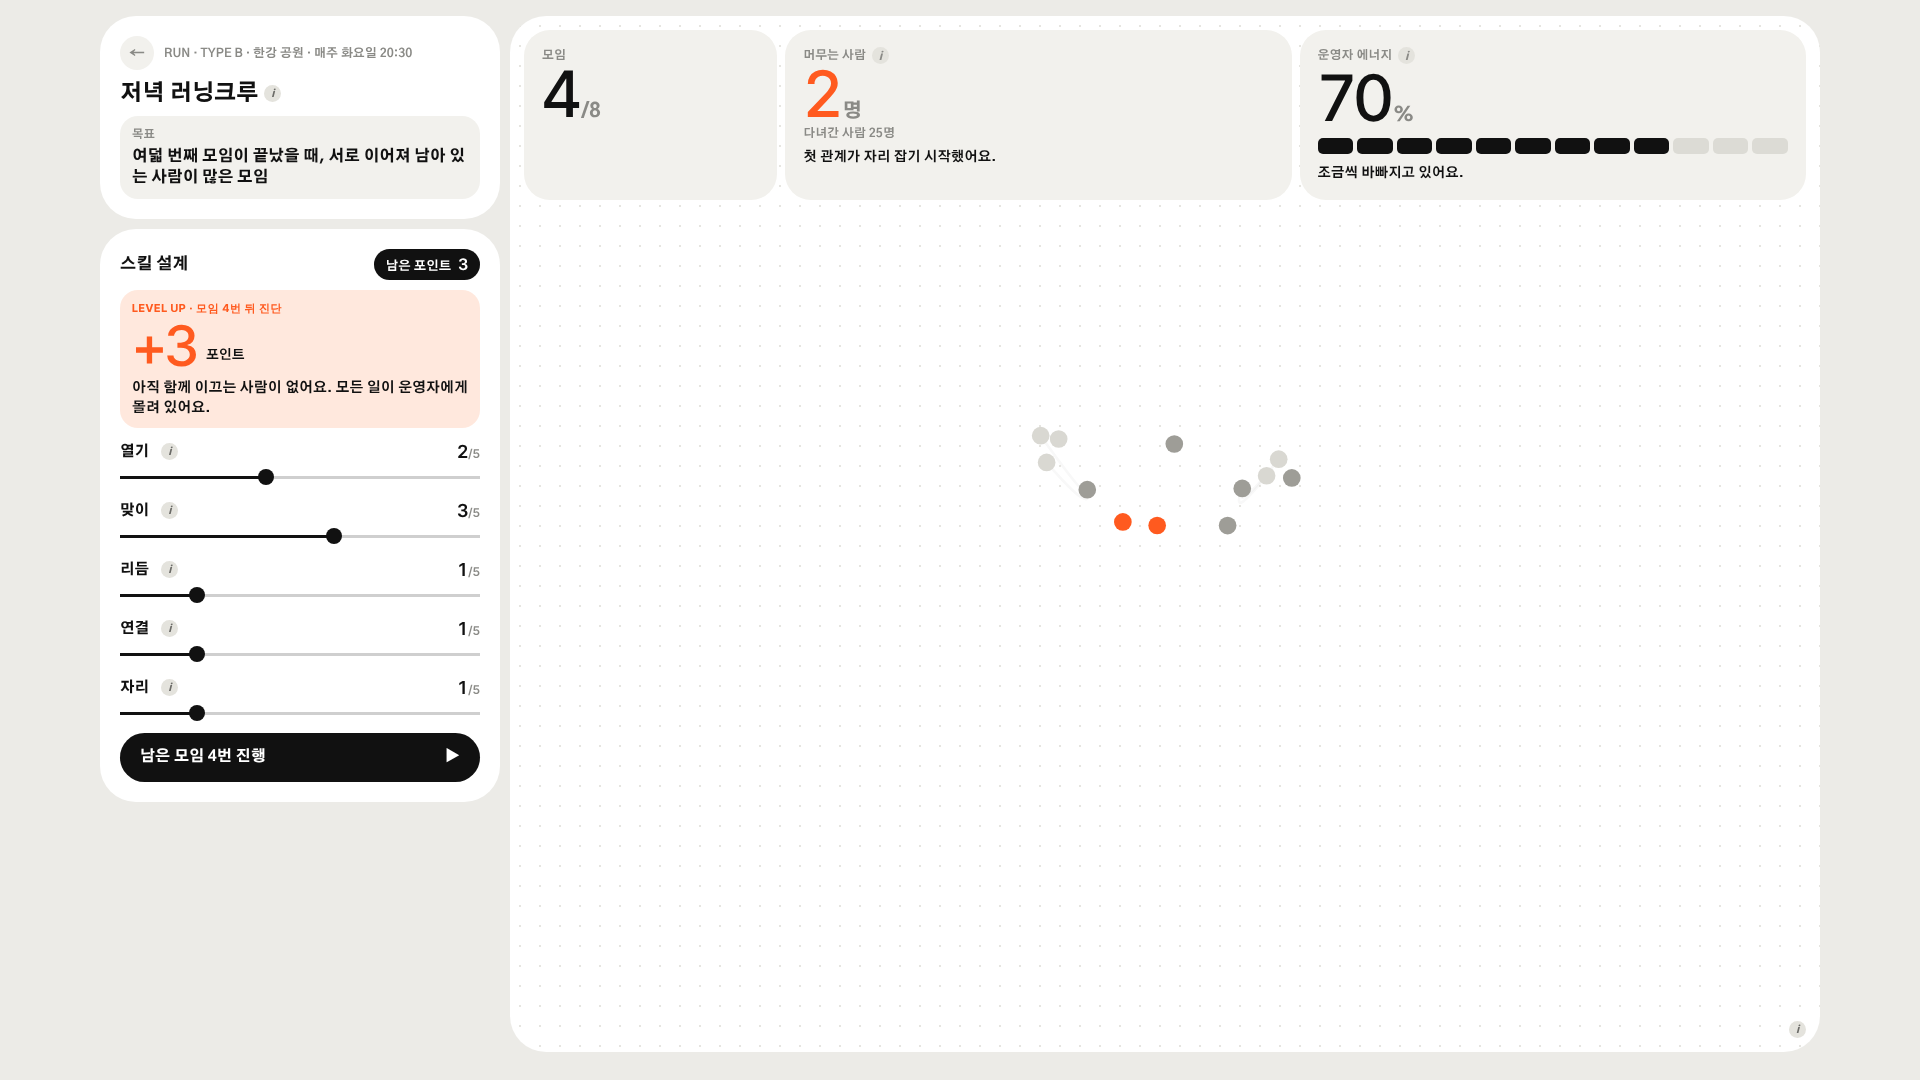
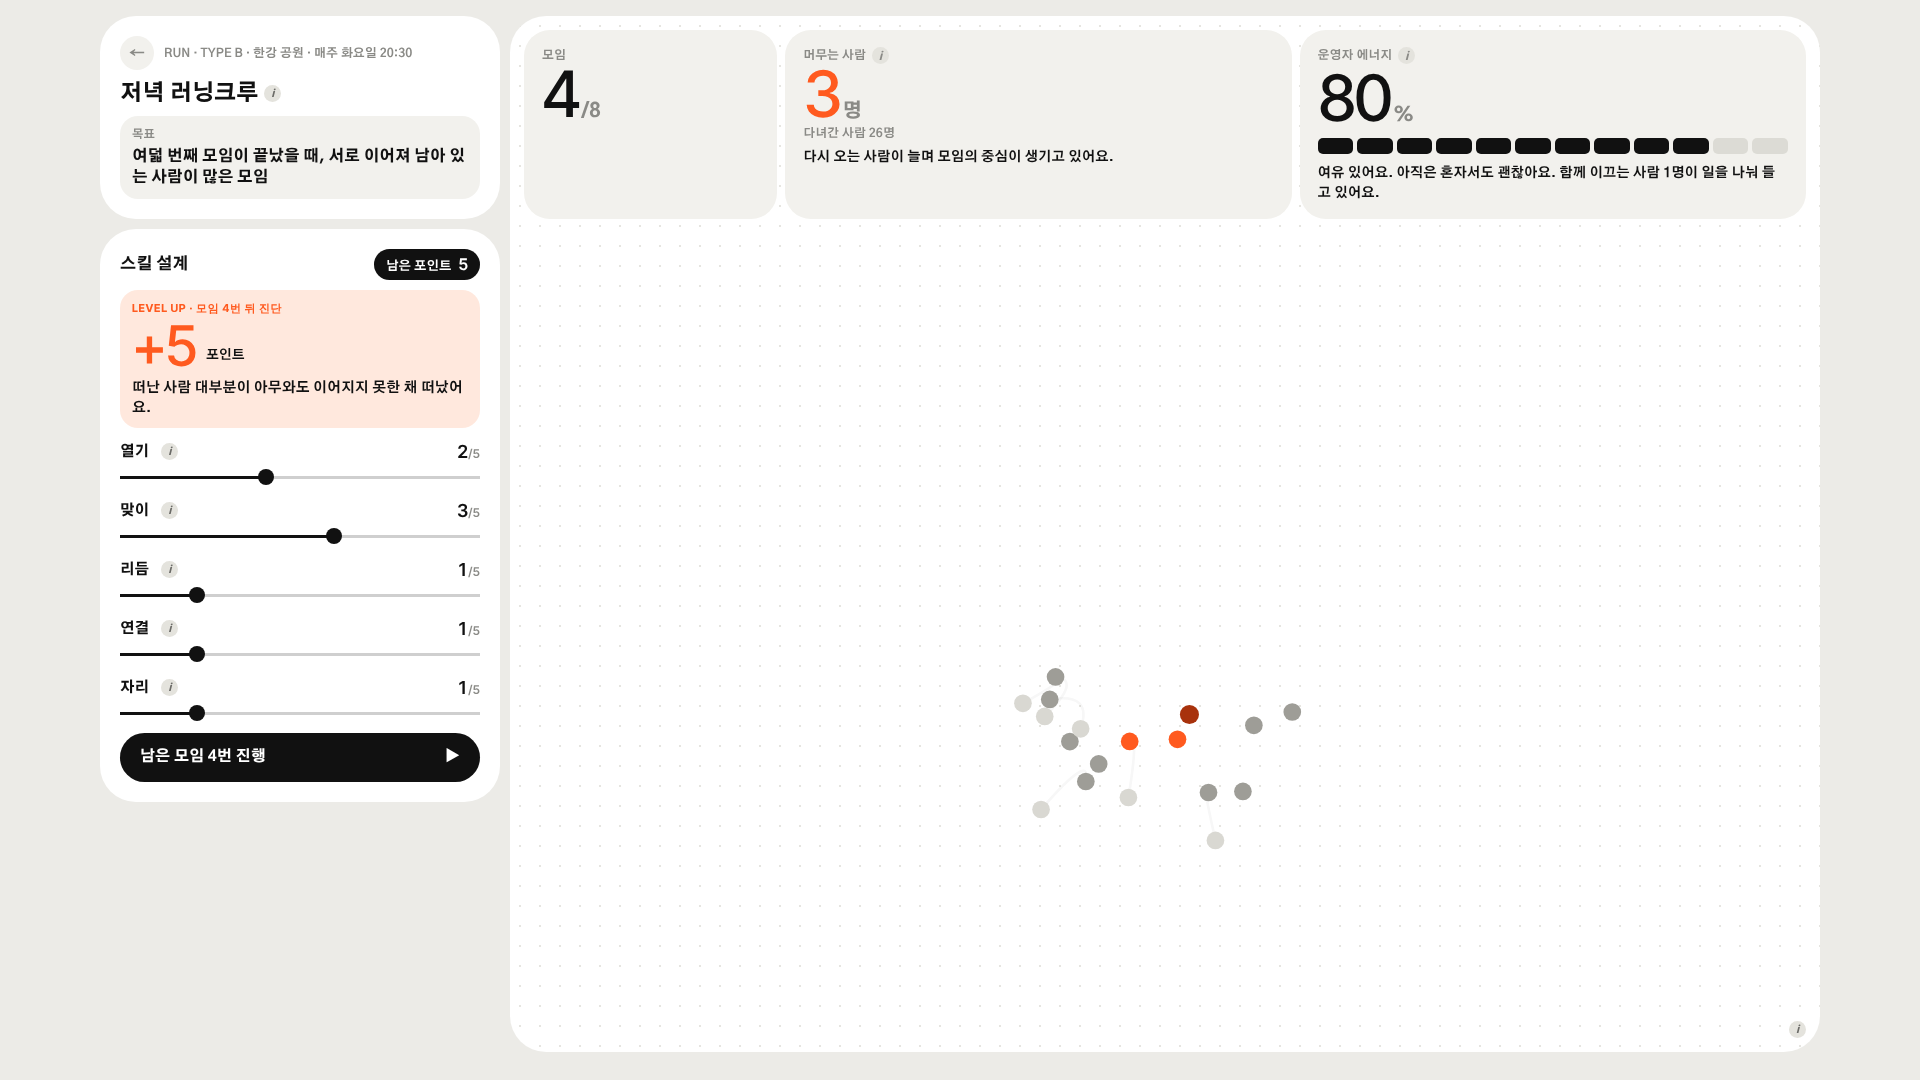
게임 v2.2 시안: 결과 2열, 진단과 머무는 사람을 한 패널에, 공동체 의식 번호·만점·목표선
Claude-Session: https://claude.ai/code/session_01SaCvLutmawHZS3kxPWYxw7

diff --git a/thesis/game/moim.v07.src.html b/thesis/game/moim.v07.src.html
@@ -603,6 +603,38 @@ body{background:var(--page)}
 .mm3 .r i{width:32px;height:32px;border-radius:50%;background:var(--ink);color:#fff;font-style:normal;font-weight:800;font-size:14px;display:grid;place-items:center;opacity:var(--o)}
 .mm3 .r b{font-weight:800;font-size:clamp(26px,2.4vw,36px);letter-spacing:-.03em;color:rgba(17,17,17,var(--o))}
 .mm3 .r em{font-style:normal;font-family:var(--f-head);font-weight:500;font-size:clamp(26px,2.4vw,36px);letter-spacing:-.03em;color:rgba(17,17,17,var(--o))}
+
+/* ───────── v2.2 결과 2열: 왼쪽 = 모임 그림과 다음 행동, 오른쪽 = 진단 ───────── */
+.case3{display:grid;grid-template-columns:minmax(0,.8fr) minmax(0,1.6fr);gap:16px;align-items:start}
+@media (max-width:900px){.case3{grid-template-columns:minmax(0,1fr)}}
+.c3-l{display:grid;gap:14px}
+.c3-l .no{display:flex;align-items:center;gap:10px;font-family:var(--f-head);font-weight:700;font-size:13px;color:var(--soft)}
+.c3-l .back{background:var(--card)}
+.c3-l .photo2{max-width:none}
+.c3-l h1.bigt{font-size:clamp(36px,3.4vw,52px)}
+.c3-l .cell{background:var(--card);border-radius:var(--r-md);padding:12px 16px}
+.c3-l .cell p{font-size:13px;line-height:1.5;font-weight:700}
+.c3-r{background:var(--card);border-radius:var(--r-lg);padding:28px;display:grid;gap:16px}
+.diag{display:grid;grid-template-columns:minmax(0,1.3fr) minmax(0,1fr);gap:20px;align-items:end;padding-bottom:6px}
+.diag .lbl{font-size:12px;font-weight:700;color:var(--soft)}
+.diag p{font-size:15px;line-height:1.55;margin-top:10px}
+.diag .big2{justify-items:end;text-align:right}
+.c3-r .big2 .hero-n{font-size:clamp(110px,11vw,190px)}
+.c3-r .two{font-size:clamp(40px,4vw,64px)}
+.goal-k{margin-left:auto;font-size:12px;font-weight:700;color:var(--soft);display:flex;align-items:center;gap:6px}
+.goal-k i{width:2px;height:12px;background:var(--ink);display:inline-block}
+.mm3 .r{grid-template-columns:40px minmax(0,1fr) 130px}
+.mm3 .r i{opacity:1;font-family:var(--f-head);font-size:15px}
+.mm3 .r .w{display:grid;gap:6px}
+.mm3 .r b,.mm3 .r em{color:var(--ink)}
+.mm3 .r em{text-align:right}
+.mm3 .r em small{font-size:.42em;color:var(--soft);margin-left:2px;letter-spacing:0}
+.mm3 .r.ok em,.mm3 .r.ok b{color:var(--accent)}
+.mm3 .r.ok i{background:var(--accent)}
+.track{position:relative;height:6px;border-radius:3px;background:#e6e5df;display:block}
+.track s{position:absolute;inset:0 auto 0 0;border-radius:3px;background:var(--ink);text-decoration:none}
+.mm3 .r.ok .track s{background:var(--accent)}
+.track u{position:absolute;top:-4px;width:2px;height:14px;background:var(--ink);text-decoration:none}
 @media (prefers-reduced-motion:reduce){*{transition:none!important;animation:none!important}}
 </style>
 
@@ -1162,31 +1194,30 @@ function renderReport(){
   const better=real.length>1?Math.round(real.filter(p=>p.rooted<r.rooted).length/real.length*100):null;
   const g={'소속감':clamp(15+10*k.rhythm+6*k.conn-(k.open>=4?10:0),0,100),'영향력':clamp(10+15*k.roles+5*r.leaders,0,100),
     '욕구 충족':clamp(20+8*k.rhythm+8*k.welcome,0,100),'정서적 연결':clamp(10+12*k.conn+Math.min(30,r.links*2),0,100)};
-  app.innerHTML=`<section class="case2" style="--accent:${TPAL[r.type].dark};--accent-bg:${TPAL[r.type].bg}">
-    <div class="c2-l">
+  const GOAL=60;
+  app.innerHTML=`<section class="case3" style="--accent:${TPAL[r.type].dark};--accent-bg:${TPAL[r.type].bg}">
+    <div class="c3-l">
       <span class="no"><button class="back" id="home2" aria-label="처음 화면으로">←</button>${new Date(r.t).toLocaleDateString('ko-KR')}</span>
-      <h1 class="bigt">${T.name}<sup>No.${caseNo}</sup></h1>
-      <h2 class="two">${VSPLIT[r.verdict][0]}<span>${VSPLIT[r.verdict][1]}</span></h2>
-      <p>${V.d}</p>
       <div class="photo2">${st.photo?`<img src="${st.photo}" alt="여덟 번째 모임이 끝난 뒤 모임의 모습">`:''}<div class="cap"><span>EVIDENCE</span><span>여덟 번째 모임 뒤</span></div></div>
+      <h1 class="bigt">${T.name}<sup>No.${caseNo}</sup></h1>
+      <div class="q2"><small>NEXT QUESTION</small><b>${V.q}</b></div>
+      ${better!==null?`<div class="cell"><small>다른 모임과 비교</small><p>지금까지 만들어진 모임 ${real.length}개 중, 머무는 사람이 이 모임보다 적은 모임은 ${better}%예요.</p></div>`:''}
+      <div class="r-actions"><button class="btn" id="again"><span>다르게 설계해 보기</span><span>↻</span></button><button class="btn ghost" id="home"><span>다른 모임들 보기</span><span>→</span></button></div>
+      <p class="r-note">연구 근거를 바탕으로 만든 은유적 모델이며, 숫자는 실제 데이터가 아니에요.</p>
     </div>
-    <div class="c2-m">
-      <div class="big2"><small>머무는 사람</small><b class="hero-n">${r.rooted}<em>명</em></b><span>다녀간 ${r.total}명 가운데 자리 잡거나 함께 이끄는 사람</span></div>
+    <div class="c3-r">
+      <div class="diag">
+        <div><small class="lbl">진단</small><h2 class="two">${VSPLIT[r.verdict][0]}<span>${VSPLIT[r.verdict][1]}</span></h2><p>${V.d}</p></div>
+        <div class="big2"><small>머무는 사람</small><b class="hero-n">${r.rooted}<em>명</em></b><span>다녀간 ${r.total}명 가운데</span></div>
+      </div>
       <div class="cgrid c2-cells">
         <div class="cell"><small>다시 온 비율</small><b>${r.rate}%</b></div>
         <div class="cell"><small>관계의 선</small><b>${r.links}개</b></div>
         <div class="cell"><small>함께 이끄는 사람</small><b>${r.leaders}명</b></div>
         <div class="cell"><small>운영자 에너지</small><b style="${r.energy<30?'color:var(--red)':''}">${r.energy}%</b></div></div>
       <div class="cgrid c2-skill">${SKILLS.map(s=>`<div class="cell"><small>${s.name}</small><b>${k[s.k]}</b></div>`).join('')}</div>
-      <div class="mm3"><span class="h">공동체 의식${info('McMillan &amp; Chavis(1986)의 네 요소를 설계에서 은유적으로 추정한 값이에요. 진할수록 높아요.')}</span>
-        ${Object.entries(g).map(([n,x])=>`<div class="r" style="--o:${(.22+.78*x/100).toFixed(2)}"><i>${n[0]}</i><b>${n}</b><em>${Math.round(x)}</em></div>`).join('')}</div>
-    </div>
-    <div class="c2-r">
-      <div class="q2"><small>NEXT QUESTION</small><b>${V.q}</b></div>
-      ${better!==null?`<div class="cell"><small>다른 모임과 비교</small><p>지금까지 만들어진 모임 ${real.length}개 중, 머무는 사람이 이 모임보다 적은 모임은 ${better}%예요.</p></div>`:''}
-      <div class="cell"><small>기억할 것</small><p>앱은 마찰을 없앨수록 좋아지지만, 모임은 사람과 사람 사이에 선이 생겨야 남아요.</p></div>
-      <div class="r-actions"><button class="btn" id="again"><span>다르게 설계해 보기</span><span>↻</span></button><button class="btn ghost" id="home"><span>다른 모임들 보기</span><span>→</span></button></div>
-      <p class="r-note">연구 근거를 바탕으로 만든 은유적 모델이며, 숫자는 실제 데이터가 아니에요. 이 화면은 잠시 후 처음으로 돌아가요.</p>
+      <div class="mm3"><span class="h">공동체 의식${info(`McMillan &amp; Chavis(1986)의 네 요소를 설계에서 은유적으로 추정한 값이에요. 만점은 100, 목표선 ${GOAL}은 이 게임에서 정한 기준이에요.`)}<span class="goal-k">만점 100 · 목표 <i></i>${GOAL}</span></span>
+        ${Object.entries(g).map(([n,x],i)=>{x=Math.round(x);const ok=x>=GOAL;return `<div class="r ${ok?'ok':''}"><i>${i+1}</i><div class="w"><b>${n}</b><span class="track"><s style="width:${x}%"></s><u style="left:${GOAL}%"></u></span></div><em>${x}<small>/100</small></em></div>`;}).join('')}</div>
     </div></section>`;
   document.getElementById('again').onclick=()=>newGame(st.type);
   document.getElementById('home').onclick=()=>{st=null;screen='intro';render();};

diff --git a/thesis/26-game-prototype.md b/thesis/26-game-prototype.md
@@ -171,3 +171,9 @@
 - ① 큰 제목 + 작은 위첨자: 모임 고르기 상단 "모임 고르기³", 결과 화면 "저녁 러닝크루 No.0001"
 - ② 두 톤 제목: 결과 유형을 검정 + 회색 두 줄로 크게 (예: 조용히 자라는 / 모임)
 - ③ 검은 동그라미 글자 + 큰 단어 목록: 공동체 의식 네 요소(소·영·욕·정)를 막대 대신 큰 단어와 숫자로, 점수는 진하기로
+
+## v2.2 시안 (2026-10-28)
+- 연구자: 소·영·욕·정 대신 번호, 점수의 만점과 목표가 보이게, 결과는 2열로, 진단(결과 유형)은 머무는 사람 숫자와 같은 패널에, 왼쪽 패널 내용은 모임 그림 아래로
+- 2열: 왼쪽 = 날짜·모임 그림 → 모임 이름 No. → 다음 질문 → 비교 → 버튼 / 오른쪽 = 진단(두 톤 결과 유형 + 설명) + 머무는 사람 큰 숫자 → 지표 칸 → 스킬 칸 → 공동체 의식
+- 공동체 의식: 번호 1~4, 점수 옆 /100, 막대 위 목표선 60(게임에서 정한 기준, (i)에 명시), 목표 이상이면 키 컬러
+- 확인할 점: 공동체 의식 점수는 설계 값으로만 계산해서 "스스로 굴러가는 모임"인데도 네 요소가 모두 목표 아래로 나올 수 있음 → 결과(재방문율·관계 선·이끄는 사람)를 반영하도록 계산을 바꿀지 결정 필요
